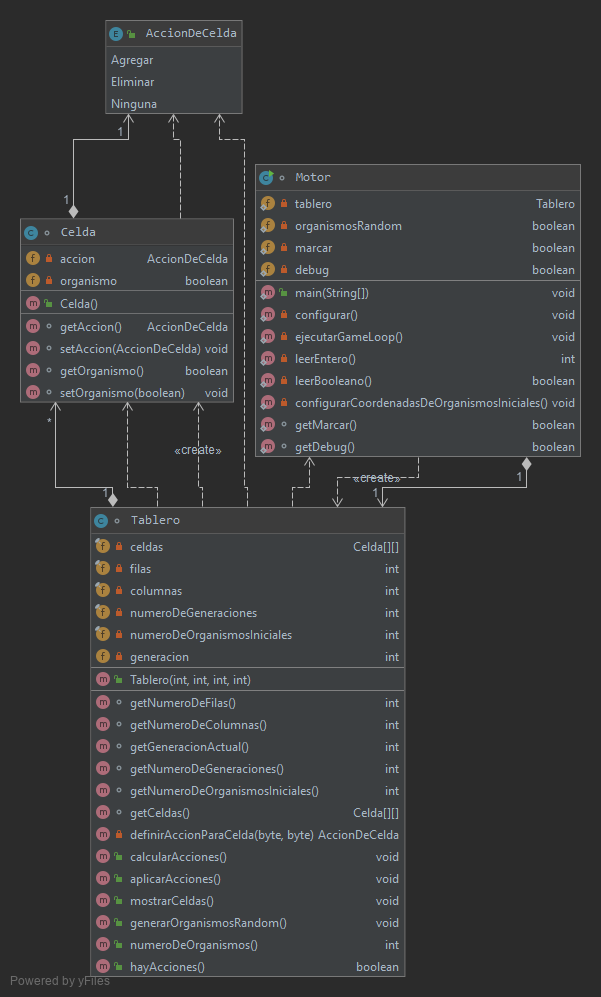
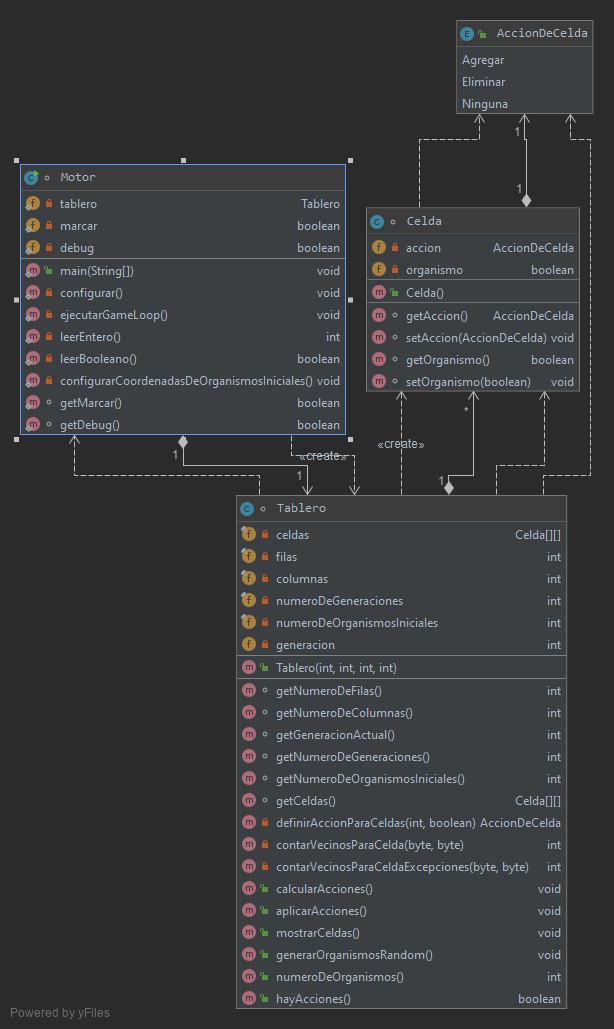
v 1.0f Changelog:
Actualizacinón de UML

diff --git a/src/com/mcc/Motor.java b/src/com/mcc/Motor.java
@@ -6,8 +6,6 @@ import java.util.Scanner;
 
 class Motor {
     private static Tablero tablero;
-
-    private static boolean organismosRandom;
     private static boolean marcar = true;
     private static boolean debug = false;
 
@@ -45,7 +43,7 @@ class Motor {
         if (porcentajeDeOrganismosIniciales < 1) porcentajeDeOrganismosIniciales = 1;
         else if (porcentajeDeOrganismosIniciales > 50) porcentajeDeOrganismosIniciales = 50;
         System.out.print("Generar organismos iniciales en posiciones random Sí: true , No: false ");
-        organismosRandom = leerBooleano();
+        boolean organismosRandom = leerBooleano();
         System.out.print("Marcar acciones en tablero: true , No: false ");
         marcar = leerBooleano();
         System.out.print("Mostrar impresión de conteo de vecinos Sí: true , No: false ");
